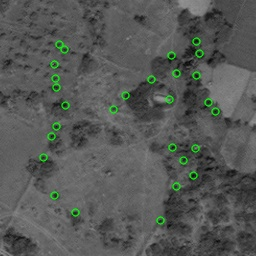
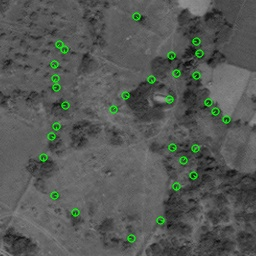
Brisk descriptor

diff --git a/src/Descriptor.cpp b/src/Descriptor.cpp
@@ -18,3 +18,8 @@ void SURFDescriptor::compute(const Mat &image, vector<KeyPoint> &keypoints, Mat 
     Ptr<SURF> surfPtr = SURF::create();
     surfPtr->compute(image, keypoints, descriptors);
 };
+
+void BRISKDescriptor::compute(const Mat &image, vector<KeyPoint> &keypoints, Mat &descriptors) {
+    Ptr<BRISK> briskPtr = BRISK::create();
+    briskPtr->compute(image, keypoints, descriptors);
+};

diff --git a/include/Descriptor.h b/include/Descriptor.h
@@ -28,4 +28,9 @@ public:
     void compute(const Mat &image, vector<KeyPoint> &keypoints, Mat &descriptors) override;
 };
 
+class BRISKDescriptor: public Descriptor {
+public:
+    void compute(const Mat &image, vector<KeyPoint> &keypoints, Mat &descriptors) override;
+};
+
 #endif // DESCRIPTOR_H

diff --git a/src/main.cpp b/src/main.cpp
@@ -76,8 +76,9 @@ int main() {
     // SURFDetect detector;
     FASTDetector detector;
     cout << "Cheguei aqui";
-    ORBDescriptor descriptor;
+    // ORBDescriptor descriptor;
     // SURFDescriptor descriptor;
+    BRISKDescriptor descriptor;
 
     processDataset(detector, descriptor);
 
